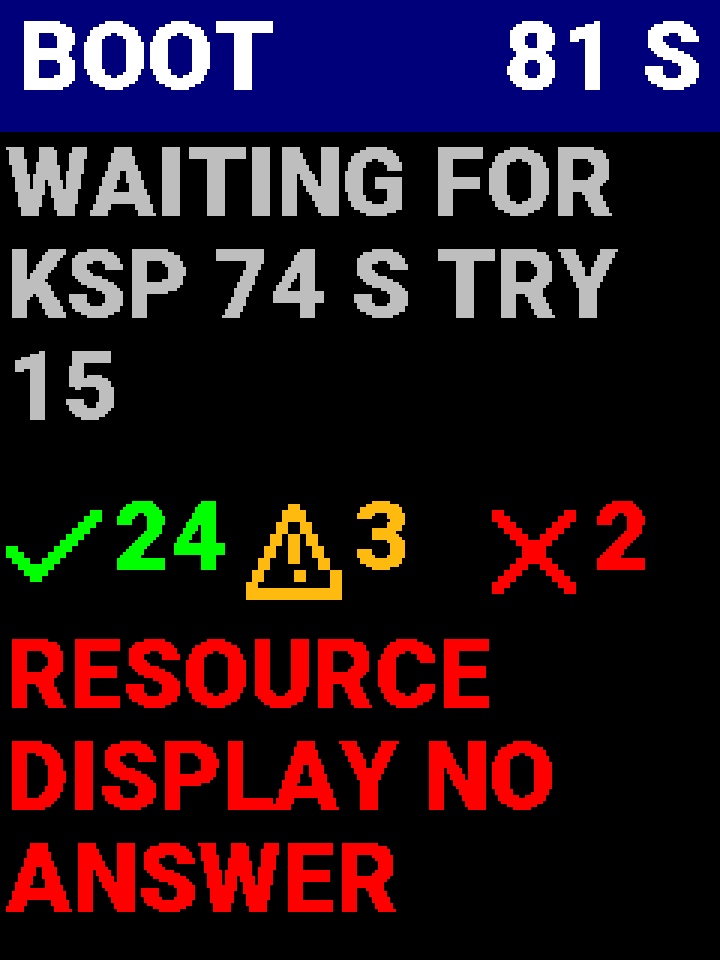
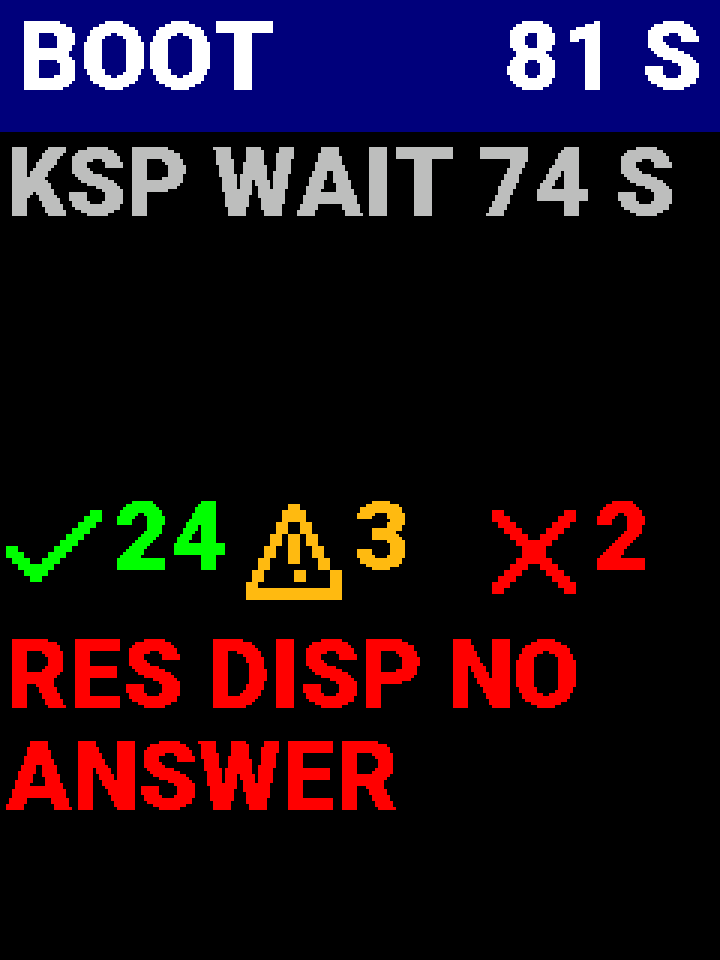
Sys Info Display design, Draft 3: review answers
600 mm eye distance; current caution above 7 A and warning above 8 A; 50 / 60 C;
no screen saver; short boot lines for the display (full table, each measured to
fit two rows); demo keeps the status screen live, with the KSP row in the
Annunciator's DEMO colour (white on TFT_BLUE) in place of the magenta border.
New mockups for the current thresholds and demo.

Claude-Session: https://claude.ai/code/session_01AfFKiY5R8Xk7jem2zcWdES

Changed region(s): [[0.0, 0.1562, 0.9472, 0.4375], [0.0, 0.6562, 0.825, 0.8438], [0.0, 0.875, 0.55, 0.9688]]

diff --git a/Documents/Developer/assets/gen_sysinfo_mockups.py b/Documents/Developer/assets/gen_sysinfo_mockups.py
@@ -29,7 +29,8 @@ def c565(v):
 
 BLACK, OFFB, DGREY, GREY, LGREY, WHITE = map(c565, (0x0000, 0x2104, 0x39E7, 0x8410, 0xBDF7, 0xFFFF))
 GREEN, RED, DRED = map(c565, (0x07E0, 0xF800, 0x6000))
-YELLOW, ORANGE, SKY, NAVY, MAGENTA = map(c565, (0xFDC2, 0xFBE0, 0x761F, 0x000F, 0xF81F))
+YELLOW, ORANGE, SKY, NAVY, MAGENTA, BLUE = map(c565, (0xFDC2, 0xFBE0, 0x761F, 0x000F, 0xF81F, 0x001F))
+DEMO_BG = BLUE              # the Annunciator's lit DEMO tile: white on TFT_BLUE (ScreenMain.ino modeGrid)
 
 _fc, _cap = {}, {}
 def font(name):
@@ -178,8 +179,9 @@ def status(name, v=12.08, a=1.84, w=22.3, t=38, rpm=2140, ksp=(5, 5), mods=(13, 
     vc = GREY if g else GREEN if v >= 11.5 else YELLOW if v >= 11.0 else RED
     s.icon(M, 8, ICON["bolt"], vc)
     s.text(W - M, -4, R48, "%.2fV" % v, vc, "r")
-    s.text(M, 46, R32, "%.2fA" % a, GREY if g else WHITE)
-    s.text(W - M, 46, R32, "%.1fW" % w, GREY if g else WHITE, "r")
+    ac = GREY if g else RED if a > 8.0 else YELLOW if a > 7.0 else WHITE
+    s.text(M, 46, R32, "%.2fA" % a, ac)
+    s.text(W - M, 46, R32, "%.1fW" % w, ac, "r")
     tc = GREY if g else GREEN if t < 50 else YELLOW if t < 60 else RED
     s.icon(M, 98, ICON["therm"], tc)
     s.text(36, 92, R32, "%dC" % t, tc)
@@ -187,6 +189,9 @@ def status(name, v=12.08, a=1.84, w=22.3, t=38, rpm=2140, ksp=(5, 5), mods=(13, 
     s.icon(112, 98, ICON["fan"], fc)
     s.text(W - M, 92, R32, "%d" % rpm if rpm else "STOP", fc, "r")
     kc = GREY if g else GREEN if ksp[0] == ksp[1] else ORANGE
+    if demo and not g:      # demo: the KSP row is drawn as the Annunciator's DEMO tile
+        s.rect(0, 136, W, 40, DEMO_BG)
+        kc = WHITE
     s.icon(M, 144, ICON["link"], kc)
     s.text(40, 138, R32, "KSP", kc)
     s.text(W - M, 138, R32, "%d/%d" % ksp, kc, "r")
@@ -199,11 +204,11 @@ def status(name, v=12.08, a=1.84, w=22.3, t=38, rpm=2140, ksp=(5, 5), mods=(13, 
         s.text(W // 2, 236, R32, "MASTER", WHITE, "c")
         s.text(W // 2, 276, R32, "SILENT %d S" % stale, WHITE, "c")
     else:
-        l1, l2, c = msg
+        l1, l2, c = msg[:3]
+        if len(msg) > 3:    # an entry on a block (DEMO MODE: white on the DEMO tile blue)
+            s.rect(0, 226, W, 72, msg[3])
         s.text(M, 228, TXT, l1, c)
         s.text(M, 228 + PITCH, TXT, l2, c)
-    if demo:   # demo: a magenta frame round the whole screen
-        s.frame(0, 0, W, H, MAGENTA, 3)
     s.save(name)
 
 # ---------------------------------------------------------------- SWITCH ERR
@@ -225,16 +230,18 @@ def swerr(name, errs, page=None):
 os.makedirs(OUT, exist_ok=True)
 for f in os.listdir(OUT):
     if f.endswith(".png"): os.remove(os.path.join(OUT, f))
-boot("SysInfo_BOOT", (1, "29 TRANSLATION INT_7 OK"), (9, 0, 0), None, elapsed="2 S")
-boot("SysInfo_BOOT_WAIT", (0, "WAITING FOR KSP  74 S  TRY 15"), (24, 3, 2),
-     (3, "RESOURCE DISPLAY NO ANSWER"), elapsed="81 S")
-boot("SysInfo_BOOT_HUNG", (1, "22 ACTION INT_1 OK"), (8, 0, 0), None, silent=12, elapsed="14 S")
+boot("SysInfo_BOOT", (1, "TRANSLATION OK"), (9, 0, 0), None, elapsed="2 S")
+boot("SysInfo_BOOT_WAIT", (0, "KSP WAIT 74 S"), (24, 3, 2),
+     (3, "RES DISP NO ANSWER"), elapsed="81 S")
+boot("SysInfo_BOOT_HUNG", (1, "ACTION OK"), (8, 0, 0), None, silent=12, elapsed="14 S")
 status("SysInfo_STATUS")
 status("SysInfo_STATUS_SERVICE", msg=("UPTIME", "01:23:45", LGREY))
-status("SysInfo_STATUS_FAULTS", v=10.84, a=3.02, w=32.7, t=52, rpm=0, ksp=(3, 5), mods=(12, 13),
-       msg=("SUPPLY LOW", "10.84 V", RED), demo=True)
-status("SysInfo_STATUS_FAULTS_2", v=10.84, a=3.02, w=32.7, t=52, rpm=0, ksp=(3, 5), mods=(12, 13),
-       msg=("RESOURCE", "NO ANSWER", RED), demo=True)
+status("SysInfo_STATUS_FAULTS", v=10.84, a=8.31, w=90.1, t=52, rpm=0, ksp=(3, 5), mods=(12, 13),
+       msg=("CURRENT", "HIGH 8.31 A", RED))
+status("SysInfo_STATUS_FAULTS_2", v=11.32, a=7.24, w=82.0, t=52, rpm=0, ksp=(3, 5), mods=(12, 13),
+       msg=("RESOURCE", "NO ANSWER", RED))
+status("SysInfo_STATUS_DEMO", ksp=(4, 5), msg=("DEMO MODE", "ON", WHITE, DEMO_BG), demo=True)
+status("SysInfo_STATUS_DEMO_2", ksp=(4, 5), msg=("ALL SYSTEMS", "NOMINAL", GREEN), demo=True)
 status("SysInfo_STATUS_STALE", stale=7)
 swerr("SysInfo_SWITCH_ERR", [("GEAR", "UP"), ("SAS", "OFF"), ("BRAKE", "REL")])
 swerr("SysInfo_SWITCH_ERR_PAGED", [("CHUTE", "SAFE"), ("GEAR", "UP"), ("BRAKE", "REL"), ("EXT LT", "OFF"),

diff --git a/Documents/Developer/Sys_Info_Display_Design.md b/Documents/Developer/Sys_Info_Display_Design.md
@@ -4,7 +4,7 @@
 |---|---|
 | **Document type** | Developer — design for approval |
 | **Location** | `Documents/Developer/Sys_Info_Display_Design.md` |
-| **Status** | Draft 2, for review. Nothing is built yet. The master side of the link exists (`Software/KCMk1_Master/sysinfo.cpp`, I2C spec §15.4); the display firmware does not |
+| **Status** | Draft 3: the review questions are answered (D6–D11). Nothing is built yet. The master side of the link exists (`Software/KCMk1_Master/sysinfo.cpp`, I2C spec §15.4); the display firmware does not |
 | **Board** | 2" TFT Display Driver, KC-01-1901 / 1902 V2.0: XIAO RP2350, **ER-TFTM020-2** 240×320 IPS (ST7789), microSD. Panel A2 slot P2, I2C 0x14 |
 | **Builds on** | `Master_Firmware_Design.md` §5 and §14; `Hardware_Inventory.md` §5.7 and §8.12; `I2C_Protocol_Specification.md` §15.4; the ER-TFTM020-2 datasheet (Eastrising, rev 1.0, 2023-07-07) |
 | **Mockups** | `assets/sysinfo/*.png` (1:1) and `*_x3.png` (3×), from `assets/gen_sysinfo_mockups.py`. They are drawn with the panels' own fonts. The script refuses any text below the size rule of §1.1 |
@@ -41,7 +41,16 @@ Decided in the review of 2026-10-31:
 | D4 | **Everything must be readable on the ER-TFTM020-2** (owner, 2026-10-31): the size rule of §1.1, applied to every string by the mockup script and, later, by `panel_lint.py` |
 | D5 | **Portrait orientation,** 240 wide × 320 tall (owner, 2026-10-31), matching the A2 window. The ST7789 runs in a portrait rotation (0 or 2), chosen on the bench so the image is upright as mounted (§9.3 #1) |
 
-Everything else in this draft is a **proposal** to confirm. The questions are collected in §10.
+Answered in the review of 2026-10-31 (§10):
+
+| # | Decision |
+|---|---|
+| D6 | **Design eye distance 600 mm** (§1.1) |
+| D7 | **Current caution above 7 A (yellow), warning above 8 A (red)** (§4.2) |
+| D8 | **Temperature caution 50 °C, warning 60 °C** (§4.2) |
+| D9 | **No screen saver:** the screen always shows its information (§2.4) |
+| D10 | **Shorter boot lines** from the master, each fitting two rows, with the long forms kept on Serial (§8.2) |
+| D11 | **Demo mode:** the status screen works as normal. The KSP row is drawn in the Annunciator's DEMO colour: white on `TFT_BLUE`, as its lit DEMO tile (`ScreenMain.ino` `modeGrid`) (§4.1) |
 
 ---
 
@@ -77,7 +86,7 @@ From the ER-TFTM020-2 datasheet:
 | Supply | 3.0–3.5 V, up to 90 mA | For `Power_Budget.md` |
 | Image sticking | A fixed image held for more than 2 h can leave a ghost. Advice: block patterns rather than thin lines; shift borders now and then; black or mid-grey backgrounds | §2.4 |
 
-**Size rule.** The common legibility guidance (ANSI/HFES 100, ISO 9241-303) asks for a capital letter to subtend at least **16 minutes of arc**, and 20–22′ is preferred. The design viewing distance is **600 mm** (an arm's length to Panel A2; §10 Q1). That gives:
+**Size rule.** The common legibility guidance (ANSI/HFES 100, ISO 9241-303) asks for a capital letter to subtend at least **16 minutes of arc**, and 20–22′ is preferred. The design viewing distance is **600 mm** (an arm's length to Panel A2; D6). That gives:
 
 | | Cap height | Pixels (0.1275 mm) |
 |---|---|---|
@@ -168,13 +177,13 @@ The status screen can sit unchanged for hours, the case the datasheet warns abou
 - **Black background,** as the datasheet advises for long-held images.
 - **Shift:** every 10 minutes the whole image moves to the next of five positions: centre, then 2 px up, right, down, left. Every layout keeps a 2 px margin, so nothing is cut off. The move is too small to notice.
 - **The message area changes** every 2.5 s (§4.3), so its block is never held.
-- **Screen saver** outside a flight scene (§10 Q5): after 10 minutes with no alert and no change in the link or module counts, the screen goes black. It wakes on entering a flight scene, on any alert, or on any change to KSP or MOD.
+- **No screen saver** (D9): the screen always shows its information. The shift, the black background and the changing message area are the measures against sticking. Bench check #8 looks for a ghost after a day.
 
 ## 3. Boot screen
 
 ![Boot screen, waiting for KSP](assets/sysinfo/SysInfo_BOOT_WAIT_x3.png) ![Boot screen, master silent](assets/sysinfo/SysInfo_BOOT_HUNG_x3.png)
 
-*Left: a boot with warnings and errors, now waiting for KSP. Right: the master stopped sending 12 s ago, after its last step.*
+*Left: a boot with warnings and errors, now waiting for KSP (short boot lines, §8.2). Right: the master stopped sending 12 s ago, after its last step.*
 
 ### 3.1 Layout
 
@@ -189,7 +198,7 @@ The status screen can sit unchanged for hours, the case the datasheet warns abou
 
 - **Severity colours** (BOOT_LINE `attr` bits 1:0): info light grey, OK green, warning yellow, error red.
 - **REPLACE** (attr bit 7) overwrites the newest line: this is the live `WAITING FOR KSP  74 S  TRY 15`. A replaced line does not count again.
-- **Wrapping** is by pixel width at word breaks; runs of spaces collapse. A line longer than 3 rows is cut. The master's lines need no change, but §8.2 proposes shorter ones that fit in two rows.
+- **Wrapping** is by pixel width at word breaks; runs of spaces collapse. A line longer than 3 rows is cut. The master sends a short form of each line that fits in two rows (§8.2, D10); a line that still runs longer is cut at 3 rows.
 - **Full log:** the whole boot is on the master's Serial (unchanged) and is replayed to a display that starts late.
 
 ### 3.3 Master silent
@@ -214,8 +223,12 @@ BOOT_DONE switches to the status screen, unchanged from today. A display that st
 *Left to right:*
 1. *normal;*
 2. *the message area on a service item;*
-3. *low supply, hot board with the fan stopped, two displays down, a module missing, demo on (magenta border);*
+3. *low supply, current above 8 A, hot board with the fan stopped, two displays down, a module missing;*
 4. *no frame for 7 s.*
+
+![Supply caution, current caution](assets/sysinfo/SysInfo_STATUS_FAULTS_2_x3.png) ![Demo mode, message entry](assets/sysinfo/SysInfo_STATUS_DEMO_x3.png) ![Demo mode, all well](assets/sysinfo/SysInfo_STATUS_DEMO_2_x3.png)
+
+*Left: supply and current both in caution (yellow), a display not answering. Middle and right: demo mode. The KSP row is on the DEMO tile's blue; the message area shows `DEMO MODE / ON` on the same blue once per rotation.*
 
 ### 4.1 Layout
 
@@ -228,14 +241,14 @@ BOOT_DONE switches to the status screen, unchanged from today. A display that st
 | Modules | 180–214 | Chip icon, `MOD`, **present / 13** | 32 |
 | Messages | 228–296 | Two lines (§4.3) | 32 |
 
-Demo mode puts a 3 px **magenta border** round the whole screen. That is the only way to show it without small text, and it reads as a frame, not a value.
+**Demo mode** (D11): the status screen keeps working, and every reading is live. The KSP row is drawn as the Annunciator's lit DEMO tile: a `TFT_BLUE` band behind white icon and text. It still shows the links up, since the displays keep their own Simpit links in demo. Blue *text* on black is not used: pure blue is too dark to read on this panel. White on a blue block reads well and matches the tile.
 
-### 4.2 Colours and thresholds (proposed)
+### 4.2 Colours and thresholds
 
 | Row | Green | Yellow | Orange | Red |
 |---|---|---|---|---|
 | Voltage | ≥ 11.5 V | 11.0–11.5 V | | < 11.0 V (the master's `POWER_LOW_V`) |
-| Current, power | white: no limit proposed (§10 Q3) | | | |
+| Current, power | white, ≤ 7 A | > 7 A | | > 8 A (D7). Power takes the current's colour |
 | Temperature | < 50 °C | 50–59 °C | | ≥ 60 °C. The fan reaches 100 % at 50 °C (`board.cpp`) |
 | Fan rpm | white | | | `STOP`, when the duty is above 0 and the rpm reads 0 |
 | KSP | 5 / 5 | | fewer | |
@@ -252,6 +265,7 @@ Two lines of Roboto Black 32, about 11 characters each. The firmware keeps a lis
 |---|---|---|---|
 | Master silent | (replaced by the red block, §4.4) | | |
 | Supply low | `SUPPLY LOW` | `10.84 V` | red / yellow |
+| Current high | `CURRENT` | `HIGH 8.31 A` | red / yellow |
 | Board hot | `BOARD TEMP` | `62 C` | red / yellow |
 | Fan stopped | `FAN STOPPED` | `DUTY 100 %` | red |
 | A sensor missing | `POWER MON` / `FAN CTRL` | `NO READING` | yellow |
@@ -261,7 +275,7 @@ Two lines of Roboto Black 32, about 11 characters each. The firmware keeps a lis
 | A module missing | `GPWS` (the master's short name) | `MISSING` | red |
 | A module in FAULT | `THROTTLE` | `FAULT` | orange |
 | I2C errors rising | `I2C BUS` | `17 ERRORS` | yellow (shown while the count rose in the last minute) |
-| Demo | `DEMO MODE` | `ON` | magenta |
+| Demo | `DEMO MODE` | `ON` | white on the DEMO blue block |
 | Debug | `DEBUG` | `ON` | sky |
 | *All well* | `ALL SYSTEMS` | `NOMINAL` | green |
 | *Service* | `UPTIME` / `MASTER FW` / `SYSINFO FW` / `FAN DUTY` / `I2C ERRORS` | `01:23:45` / `v0.10.0` / `v1.0.0` / `40 %` / `0` | light grey |
@@ -305,7 +319,7 @@ As the 7" displays (#47; `KCM_Display.h` `kcmBacklight*`):
 - **Levels:** flight % and standby % from the master's BACKLIGHT frame. Defaults before the first frame are 70 / 20 %. Floor 5 % (`KCM_BL_MIN_PCT`), 300 ms ramp (`KCM_BL_RAMP_MS`). PWM on D0 to the panel's BLK input.
 - **Standby level:** the status screen while the master is not in a flight scene (new CONTROL bit 2, §7.1). This matches the 7" panels, which dim on their standby screens.
 - **Flight level:** in a flight scene, and always on the boot screen, SWITCH ERR, MASTER SILENT, or any red value. An alert is never shown dimmed.
-- **Off:** while the screen saver is on (§2.4).
+- **Never off:** there is no screen saver (D9).
 - **The panel is not sunlight-readable** (datasheet), so the standby level and the 5 % floor are checked on the real panel under the room's lighting (§9.3).
 
 ## 7. Protocol changes
@@ -351,20 +365,43 @@ The display also keeps the master's module short names, in the same order, for t
 | `carriers.cpp` | `pushBacklight()` also writes 0x14, through `sysinfo`, so an absent display is not written |
 | `board.cpp` | Passes `fanDuty` into `SiStatus` |
 | `tools/tests` | The new STATUS layout, CONTROL bit 2, and the backlight frame to 0x14 |
+| `boot.cpp`, `module_bus.cpp`, `carriers.cpp`, `switches.cpp` | The short boot lines (§8.2) |
 | `config.h` | Version 0.10.0 |
 
-### 8.2 Proposed: boot lines that fit two rows
+### 8.2 Short boot lines (D10)
 
-Each of today's lines fits in three rows; many would fit in two if shortened. For example:
+`bootLine()` gains a short form. Each call gives both: Serial prints the long line as today, and the Sys Info Display gets the short one. Every short form below fits in two rows of Roboto Black 32 (236 px), measured on the real font widths. A value too long for its row (an unknown stage name, say) is cut at 3 rows.
 
-| Today | Proposed |
+| Today (Serial) | To the Sys Info Display |
 |---|---|
-| `WAITING FOR KSP  74 S  TRY 15` | `WAIT KSP 74 S` (the try count goes to Serial only) |
+| `KCMk1 MASTER v0.10.0` | `MASTER v0.10.0` |
+| `RESET: POWER ON` (`WATCHDOG`, `OVER TEMPERATURE`, …) | unchanged |
+| `RESET: WATCHDOG (3 IN A ROW)` | `RESET: WATCHDOG x3` |
+| `HUNG IN MODULES @0x2C` | `HUNG IN MODULES @2C` |
+| `I2C BUS WAS HELD LOW: RECOVERED` | `I2C BUS RECOVERED` |
+| `CONFIG  I2C 400 kHz` | `I2C 400 kHz` |
+| `POWER MON  INA228   OK` / `MISSING` | `POWER MON OK` / `POWER MON MISSING` |
+| `FAN CTRL   EMC2101  OK` / `MISSING` | `FAN CTRL OK` / `FAN CTRL MISSING` |
+| `INT MAP: STORED` / `DEFAULT` | `INT MAP STORED` / `INT MAP DEFAULT` |
+| `29 TRANSLATION INT_7    OK` | `TRANSLATION OK` (address and INT line on Serial) |
+| `2C THROTTLE    INT_5    LEARNED` | `THROTTLE INT LEARNED` |
+| `2A GPWS        MISSING` / `WRONG TYPE` | `GPWS MISSING` / `GPWS WRONG TYPE` |
+| `MODULES  12 OF 13` | `MODULES 12/13` |
+| `ANNUNCIATOR      OK  KSP UP` | `ANNUNCIATOR OK KSP UP` (`INFO DISP 1`, `INFO DISP 2`, `RES DISP`) |
 | `RESOURCE DISPLAY NO ANSWER` | `RES DISP NO ANSWER` |
-| `KSP RUNNING? SIMPIT COM PORT? USB?` | `CHECK KSP / SIMPIT / USB` |
-| `2C THROTTLE    INT_5    LEARNED` | `THROTTLE INT_5 LEARNED` |
+| `DISPLAY INT LINES  3 OF 4 SEEN` | `DISP INT 3/4` |
+| `SW GRP 1  ENGINE SAFE  A/P INHIB` | `ENGINE SAFE A/P INHIB` |
+| `SW GRP 1  NOT READ: ENGINE SAFE` / `SW GRP 2  NOT READ` | `SW GRP 1 NOT READ` / `SW GRP 2 NOT READ` |
+| `CTRL MODE  SPC` / `CTRL MODE  NOT READ: SPC` | `CTRL MODE SPC` / `MODE NOT READ: SPC` |
+| `WATCHDOG ON  2 S` | `WATCHDOG 2 S` |
+| `KSP: CONNECTING ...` / `KSP: NOT CONTACTED (DEMO)` | `KSP CONNECTING` / `KSP: DEMO` |
+| `WAITING FOR KSP  74 S  TRY 15` | `KSP WAIT 74 S` (the try count on Serial) |
+| `KSP RUNNING? SIMPIT COM PORT? USB?` | `CHECK KSP, SIMPIT, USB` |
+| `KSP: CONNECTED` / `DEMO MODE` | `KSP CONNECTED` / `DEMO MODE` |
+| `3 WATCHDOG RESETS IN 60 S: HALTED` | `HALTED: 3 WDT RESETS` |
+| `FIX THE FAULT, THEN POWER CYCLE` | `FIX, THEN POWER CYCLE` |
 
-Serial keeps the long forms. This is optional (§10 Q6).
+The replay buffer in `sysinfo.cpp` keeps the short forms, as they are what the display shows.
 
 ## 9. Verification
 
@@ -380,7 +417,9 @@ These follow `Software/Displays/tools`:
   - SWITCH_ERR open, close, paging and an unknown id;
   - message order and rotation;
   - backlight level by screen, flight bit and alert;
-  - the shift and the screen saver;
+  - the shift, and that nothing ever blanks the screen;
+  - demo: the KSP row on the DEMO blue;
+  - the current caution and warning;
   - a full frame queue.
 - **`panel_lint.py`:** extended to this sketch. A new hard check: no font below the 22 px cap rule, and no string wider than its box at the fonts' real widths.
 
@@ -402,17 +441,20 @@ These follow `Software/Displays/tools`:
 | 8 | Image sticking: a day on the status screen leaves no ghost on the next screen |
 | 9 | Power draw of the board (the panel is up to 90 mA), for `Power_Budget.md` |
 
-## 10. Questions for review
+## 10. Review answers
 
-| # | Question | Proposal |
+The questions of Draft 2, answered by the owner on 2026-10-31:
+
+| # | Question | Answer |
 |---|---|---|
-| Q1 | Design eye distance to Panel A2 | 600 mm. At 500 mm, Roboto Black 28 would pass and allow 13 characters a line; at 700 mm, 32 is just under the 16′ minimum (14.4′) |
-| Q2 | Status rows: voltage, current / power, thermal, KSP, MOD, two message lines | As proposed |
-| Q3 | A current warning? | None. The supply's fuse protects; add yellow at 8 A if wanted |
-| Q4 | Temperature thresholds | 50 / 60 °C |
-| Q5 | Screen saver outside flight after 10 min (datasheet §8.3) | Yes |
-| Q6 | Shorter master boot lines (§8.2) | Yes, with the long forms kept on Serial |
-| Q7 | Demo shown as a magenta border plus a message entry | Yes |
+| Q1 | Design eye distance to Panel A2 | **600 mm** (D6) |
+| Q2 | A current warning? | **Yellow above 7 A, red above 8 A** (D7) |
+| Q3 | Temperature thresholds 50 / 60 °C | **As proposed** (D8) |
+| Q4 | Screen saver outside flight | **No:** the screen always shows its information (D9) |
+| Q5 | Shorter master boot lines | **Yes** (D10, §8.2) |
+| Q6 | How to show demo mode | **The screen stays active, with the KSP row in the Annunciator's DEMO colour** (D11). The magenta border is dropped |
+
+Nothing in the design is still open. The remaining checks are on the bench (§9.3).
 
 ---
 
@@ -422,3 +464,4 @@ These follow `Software/Displays/tools`:
 |---|---|---|
 | 1 | 2026-10-31 | First draft: hardware map from KC-01-1901, three screens with mockups, D1–D3, protocol v2.21 proposal |
 | 2 | 2026-10-31 | **Redesigned for readability on the ER-TFTM020-2** (D4); portrait confirmed (D5). Draft 1's text was 1.2–1.8 mm tall (7–10′ at 600 mm). New size rule: a 22 px (2.8 mm, 16′) minimum, so Roboto Black 32 / 48 only. Boot screen: the newest line, counts and newest problem, in place of a log. Status: six large rows and a rotating message area, in place of a dense list. SWITCH ERR takes the whole screen and pages. From the datasheet: active area 30.00 × 40.80 mm, image-sticking measures (no thin lines, a 2 px shift every 10 min, a screen saver), not sunlight-readable, backlight on BLK. The mockup script enforces the size rule and the margins |
+| 3 | 2026-10-31 | Review answers D6–D11: 600 mm; current caution > 7 A and warning > 8 A; 50 / 60 °C; no screen saver; short boot lines (full table, §8.2); demo keeps the screen live, with the KSP row on the Annunciator's DEMO blue (white on `TFT_BLUE`) in place of the magenta border. New mockups: current caution / warning, demo |
